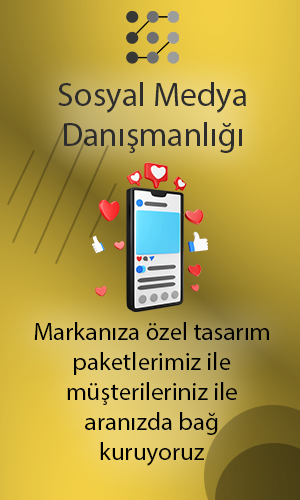
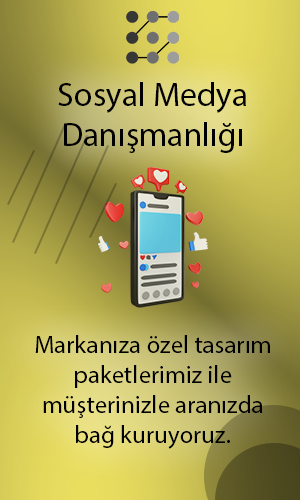
bottom bar added

Changed region(s): [[0.0, 0.3, 0.93, 1.0], [0.18, 0.0, 1.0, 0.3], [0.3, 0.57, 0.39, 0.6]]

diff --git a/style.css b/style.css
@@ -2,6 +2,7 @@
     padding: 0;
     margin: 0;
     box-sizing: border-box;
+
 }
 body{
     background: #fff;
@@ -145,7 +146,7 @@ body{
     flex-direction: row;
 }
 
-.first, .sec, .third, .four {
+.first, .sec, .third, .four, .five {
     position: absolute;
     width: 300px;
     height: 500px;
@@ -153,7 +154,7 @@ body{
 
 .first {
     border-radius: 10px;
-    opacity: 0.9;
+    opacity: 0.8;
     background-color: #727272;
     background-image: url("./ımages/tanıtım1.png");
     top: 100px;
@@ -163,7 +164,7 @@ body{
 
 .sec {
     border-radius: 10px;
-    opacity: 0.9;
+    opacity: 0.8;
     background-color: #727272;
     background-image: url("./ımages/tanıtım2.png");
     top: 100px;
@@ -175,6 +176,7 @@ body{
     border-radius: 10px;
     opacity: 0.8;
     background-color: #727272;
+    background-image: url("./ımages/tanıtım3.png");
     top: 100px;
     left: 830px;
     z-index: 1;
@@ -184,9 +186,21 @@ body{
     border-radius: 10px;
     opacity: 0.8;
     background-color: #727272;
+    background-image: url("./ımages/tanıtım4.png");
     top: 100px;
     left: 1245px; 
     z-index: 1;
+}
+
+.five{
+  background-repeat: no-repeat;
+  width: 1000px;
+  height: 500px;
+  opacity: 0.8;
+  background-image: url("./ımages/argyxtheme.png");
+  top: 700px;
+  left: 280px; 
+  z-index: 1;
 }
 
   .video{
@@ -196,4 +210,11 @@ body{
         width: 100%;
         height: 100%;
         z-index: -1;
+  }
+
+  .bottom-bar{
+    width: 100%;
+    height: 1000px;
+    border-style: groove;
+    border-width: 5px;
   }

diff --git a/index.html b/index.html
@@ -46,10 +46,13 @@
         <div class="sec"></div>
         <div class="third"></div>
         <div class="four"></div>
+        <div class="five"></div>
     </div>
 
-    </div>
 
+
+    </div>
+    <div class="bottom-bar"></div>
     
 </body>
 </html>
